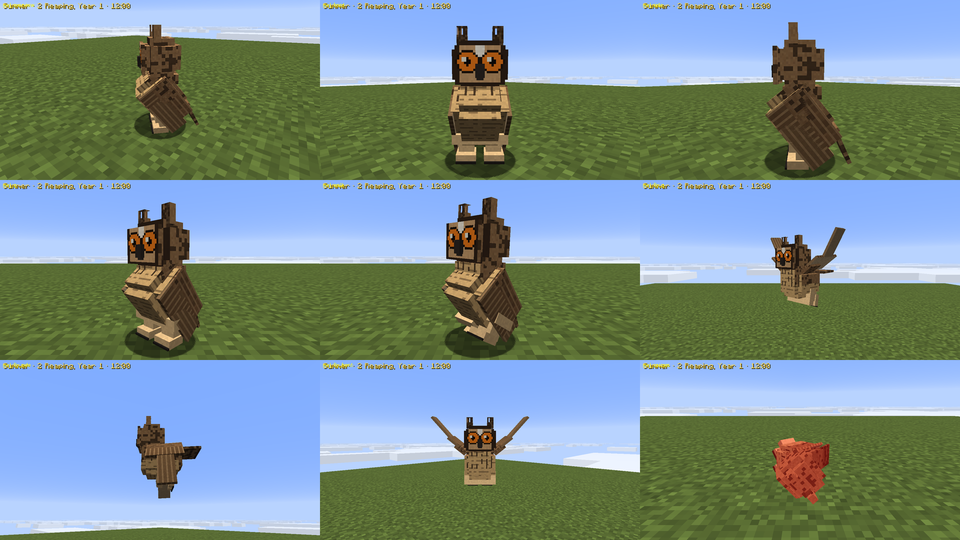
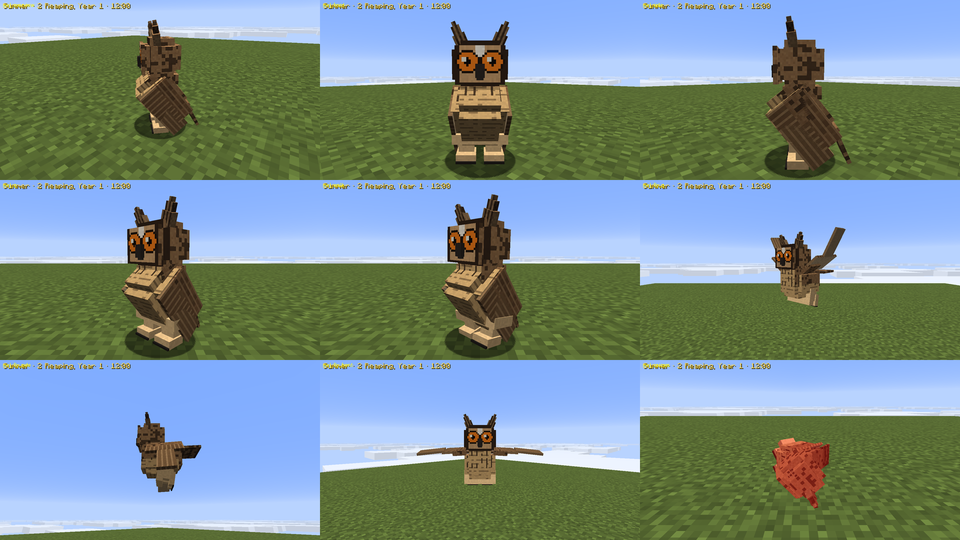
Small-package fix pass: eagle-owl tufts, wild cat ears, squirrel and vole eyes, hare sitting pose
- Eagle-owl: solid feathered ear tufts on their own head parts, splayed outward (were hollow alpha-cut boxes).
- Wild cat and kitten: short broad ears set wider and angled out, rounded tips; the back ridge fills the dips
  between the body blobs (no see-through gaps from the side).
- Red squirrel: dark bead eye with a thin pale ring, set clear of the cheek; slimmer ear tufts.
- Field vole: a round bead eye instead of the "+" shape.
- Hare: a lower sitting pitch (HareModel SIT_PITCH 0.25 -> 0.12, foreleg stretch to match), less leggy.
Shots in docs/shots/fauna/old_small_* refreshed.

diff --git a/src/main/java/com/mechanical/client/wildlife/SmallGeometry.java b/src/main/java/com/mechanical/client/wildlife/SmallGeometry.java
@@ -219,20 +219,20 @@ public final class SmallGeometry {
                 .texOffs(18, 24).addBox(-1.125F, -1.225F, -2.1F, 2.25F, 1.75F, 1.0F)
                 .texOffs(25, 24).addBox(-1.125F, -0.725F, -2.6F, 2.25F, 0.75F, 2.0F)
                 .texOffs(34, 24).addBox(-0.875F, -1.25F, -3.25F, 1.75F, 1.5F, 1.0F)
-                .texOffs(19, 28).addBox(-0.5F, -1.25F, -3.5F, 1.0F, 0.5F, 0.25F)
+                .texOffs(17, 28).addBox(-0.5F, -1.25F, -3.5F, 1.0F, 0.5F, 0.25F)
                 .texOffs(0, 28).addBox(-0.625F, 0.25F, -3.0F, 1.25F, 0.5F, 1.0F),
                 PartPose.offsetAndRotation(0.0F, -0.5F, -5.0F, 0.0F, 0.0F, 0.0F));
         PartDefinition p_right_ear = p_head.addOrReplaceChild("right_ear", CubeListBuilder.create()
                 .texOffs(40, 24).addBox(-0.5F, -1.75F, -0.25F, 1.0F, 1.75F, 0.5F)
-                .texOffs(5, 28).addBox(-0.5F, -3.0F, -0.125F, 1.0F, 1.5F, 0.25F),
+                .texOffs(5, 28).addBox(-0.25F, -3.0F, -0.125F, 0.5F, 1.5F, 0.25F),
                 PartPose.offsetAndRotation(-1.0F, -2.25F, -0.5F, 0.0F, 0.0F, -0.15F));
         PartDefinition p_left_ear = p_head.addOrReplaceChild("left_ear", CubeListBuilder.create()
                 .texOffs(43, 24).addBox(-0.5F, -1.75F, -0.25F, 1.0F, 1.75F, 0.5F)
-                .texOffs(8, 28).addBox(-0.5F, -3.0F, -0.125F, 1.0F, 1.5F, 0.25F),
+                .texOffs(7, 28).addBox(-0.25F, -3.0F, -0.125F, 0.5F, 1.5F, 0.25F),
                 PartPose.offsetAndRotation(1.0F, -2.25F, -0.5F, 0.0F, 0.0F, 0.15F));
         PartDefinition p_right_front_leg = p_body.addOrReplaceChild("right_front_leg", CubeListBuilder.create()
                 .texOffs(52, 20).addBox(-0.375F, -0.5F, -0.375F, 0.75F, 3.0F, 0.75F)
-                .texOffs(11, 28).addBox(-0.5F, 2.5F, -0.75F, 1.0F, 0.5F, 1.0F),
+                .texOffs(9, 28).addBox(-0.5F, 2.5F, -0.75F, 1.0F, 0.5F, 1.0F),
                 PartPose.offsetAndRotation(-1.0F, 1.0F, -4.0F, 0.0F, 0.0F, 0.0F));
         PartDefinition p_right_haunch = p_body.addOrReplaceChild("right_haunch", CubeListBuilder.create()
                 .texOffs(44, 15).addBox(-0.625F, -1.25F, -1.75F, 1.25F, 2.5F, 2.5F)
@@ -245,7 +245,7 @@ public final class SmallGeometry {
                 PartPose.offsetAndRotation(0.0F, 1.5F, 0.0F, 0.0F, 0.0F, 0.0F));
         PartDefinition p_left_front_leg = p_body.addOrReplaceChild("left_front_leg", CubeListBuilder.create()
                 .texOffs(0, 24).addBox(-0.375F, -0.5F, -0.375F, 0.75F, 3.0F, 0.75F)
-                .texOffs(15, 28).addBox(-0.5F, 2.5F, -0.75F, 1.0F, 0.5F, 1.0F),
+                .texOffs(13, 28).addBox(-0.5F, 2.5F, -0.75F, 1.0F, 0.5F, 1.0F),
                 PartPose.offsetAndRotation(1.0F, 1.0F, -4.0F, 0.0F, 0.0F, 0.0F));
         PartDefinition p_left_haunch = p_body.addOrReplaceChild("left_haunch", CubeListBuilder.create()
                 .texOffs(52, 15).addBox(-0.625F, -1.25F, -1.75F, 1.25F, 2.5F, 2.5F)
@@ -368,68 +368,68 @@ public final class SmallGeometry {
         MeshDefinition mesh = new MeshDefinition();
         PartDefinition root = mesh.getRoot();
         PartDefinition p_body = root.addOrReplaceChild("body", CubeListBuilder.create()
-                .texOffs(12, 30).addBox(-2.75F, -1.25F, -5.0F, 5.5F, 4.0F, 2.5F)
-                .texOffs(0, 12).addBox(-1.5F, -2.5F, -5.0F, 3.0F, 6.5F, 2.5F)
-                .texOffs(11, 12).addBox(-1.5F, -1.25F, -6.25F, 3.0F, 4.0F, 5.0F)
-                .texOffs(39, 38).addBox(-2.5F, -1.25F, -1.0F, 5.0F, 4.0F, 2.0F)
-                .texOffs(24, 21).addBox(-1.5F, -2.25F, -1.0F, 3.0F, 6.0F, 2.0F)
-                .texOffs(34, 21).addBox(-1.5F, -1.25F, -2.0F, 3.0F, 4.0F, 4.0F)
-                .texOffs(28, 30).addBox(-2.75F, -1.5F, 2.5F, 5.5F, 4.0F, 2.5F)
-                .texOffs(27, 12).addBox(-1.5F, -2.75F, 2.5F, 3.0F, 6.5F, 2.5F)
-                .texOffs(38, 12).addBox(-1.5F, -1.5F, 1.25F, 3.0F, 4.0F, 5.0F)
-                .texOffs(0, 0).addBox(-2.0F, -2.75F, -5.5F, 4.0F, 0.5F, 11.0F)
-                .texOffs(0, 21).addBox(-2.0F, 3.75F, -4.0F, 4.0F, 0.5F, 8.0F),
+                .texOffs(12, 31).addBox(-2.75F, -1.25F, -5.0F, 5.5F, 4.0F, 2.5F)
+                .texOffs(0, 13).addBox(-1.5F, -2.5F, -5.0F, 3.0F, 6.5F, 2.5F)
+                .texOffs(11, 13).addBox(-1.5F, -1.25F, -6.25F, 3.0F, 4.0F, 5.0F)
+                .texOffs(39, 39).addBox(-2.5F, -1.25F, -1.0F, 5.0F, 4.0F, 2.0F)
+                .texOffs(24, 22).addBox(-1.5F, -2.25F, -1.0F, 3.0F, 6.0F, 2.0F)
+                .texOffs(34, 22).addBox(-1.5F, -1.25F, -2.0F, 3.0F, 4.0F, 4.0F)
+                .texOffs(28, 31).addBox(-2.75F, -1.5F, 2.5F, 5.5F, 4.0F, 2.5F)
+                .texOffs(27, 13).addBox(-1.5F, -2.75F, 2.5F, 3.0F, 6.5F, 2.5F)
+                .texOffs(38, 13).addBox(-1.5F, -1.5F, 1.25F, 3.0F, 4.0F, 5.0F)
+                .texOffs(0, 0).addBox(-2.0F, -2.6F, -5.5F, 4.0F, 1.5F, 11.0F)
+                .texOffs(0, 22).addBox(-2.0F, 3.75F, -4.0F, 4.0F, 0.5F, 8.0F),
                 PartPose.offsetAndRotation(0.0F, 15.0F, 0.0F, 0.0F, 0.0F, 0.0F));
         PartDefinition p_head = p_body.addOrReplaceChild("head", CubeListBuilder.create()
-                .texOffs(0, 51).addBox(-2.25F, -2.25F, -3.25F, 4.5F, 2.5F, 2.5F)
-                .texOffs(44, 30).addBox(-1.5F, -3.0F, -3.25F, 3.0F, 4.0F, 2.5F)
-                .texOffs(0, 38).addBox(-1.5F, -2.25F, -4.0F, 3.0F, 2.5F, 4.0F)
-                .texOffs(33, 56).addBox(-2.75F, -0.25F, -3.0F, 5.5F, 1.0F, 1.5F)
-                .texOffs(14, 51).addBox(-2.0F, -1.0F, -3.0F, 4.0F, 2.5F, 1.5F)
-                .texOffs(25, 51).addBox(-2.0F, -0.25F, -3.75F, 4.0F, 1.0F, 3.0F)
-                .texOffs(47, 56).addBox(-1.75F, -3.25F, -3.75F, 3.5F, 0.5F, 2.0F)
-                .texOffs(0, 60).addBox(-1.25F, -0.5F, -5.0F, 2.5F, 1.75F, 1.25F)
-                .texOffs(23, 60).addBox(-0.5F, -0.75F, -5.25F, 1.0F, 0.5F, 0.5F)
-                .texOffs(18, 60).addBox(-0.75F, 1.25F, -4.5F, 1.5F, 0.5F, 1.0F)
-                .texOffs(26, 60).addBox(-3.5F, 0.5F, -4.75F, 7.0F, 0.0F, 1.0F),
+                .texOffs(0, 52).addBox(-2.25F, -2.25F, -3.25F, 4.5F, 2.5F, 2.5F)
+                .texOffs(44, 31).addBox(-1.5F, -3.0F, -3.25F, 3.0F, 4.0F, 2.5F)
+                .texOffs(0, 39).addBox(-1.5F, -2.25F, -4.0F, 3.0F, 2.5F, 4.0F)
+                .texOffs(33, 57).addBox(-2.75F, -0.25F, -3.0F, 5.5F, 1.0F, 1.5F)
+                .texOffs(14, 52).addBox(-2.0F, -1.0F, -3.0F, 4.0F, 2.5F, 1.5F)
+                .texOffs(25, 52).addBox(-2.0F, -0.25F, -3.75F, 4.0F, 1.0F, 3.0F)
+                .texOffs(47, 57).addBox(-1.75F, -3.25F, -3.75F, 3.5F, 0.5F, 2.0F)
+                .texOffs(0, 61).addBox(-1.25F, -0.5F, -5.0F, 2.5F, 1.75F, 1.25F)
+                .texOffs(25, 61).addBox(-0.5F, -0.75F, -5.25F, 1.0F, 0.5F, 0.5F)
+                .texOffs(8, 61).addBox(-0.75F, 1.25F, -4.5F, 1.5F, 0.5F, 1.0F)
+                .texOffs(28, 61).addBox(-3.5F, 0.5F, -4.75F, 7.0F, 0.0F, 1.0F),
                 PartPose.offsetAndRotation(0.0F, -1.5F, -6.0F, 0.0F, 0.0F, 0.0F));
         PartDefinition p_right_ear = p_head.addOrReplaceChild("right_ear", CubeListBuilder.create()
-                .texOffs(8, 60).addBox(-1.0F, -2.0F, -0.25F, 2.0F, 2.0F, 0.5F)
-                .texOffs(42, 60).addBox(-0.5F, -2.5F, -0.25F, 1.0F, 0.5F, 0.5F),
-                PartPose.offsetAndRotation(-1.75F, -2.75F, -1.75F, 0.0F, 0.0F, -0.25F));
+                .texOffs(13, 61).addBox(-1.25F, -1.25F, -0.25F, 2.5F, 1.25F, 0.5F)
+                .texOffs(44, 61).addBox(-0.75F, -1.75F, -0.25F, 1.5F, 0.5F, 0.5F),
+                PartPose.offsetAndRotation(-2.0F, -2.5F, -1.75F, 0.0F, 0.0F, -0.45F));
         PartDefinition p_left_ear = p_head.addOrReplaceChild("left_ear", CubeListBuilder.create()
-                .texOffs(13, 60).addBox(-1.0F, -2.0F, -0.25F, 2.0F, 2.0F, 0.5F)
-                .texOffs(45, 60).addBox(-0.5F, -2.5F, -0.25F, 1.0F, 0.5F, 0.5F),
-                PartPose.offsetAndRotation(1.75F, -2.75F, -1.75F, 0.0F, 0.0F, 0.25F));
+                .texOffs(19, 61).addBox(-1.25F, -1.25F, -0.25F, 2.5F, 1.25F, 0.5F)
+                .texOffs(48, 61).addBox(-0.75F, -1.75F, -0.25F, 1.5F, 0.5F, 0.5F),
+                PartPose.offsetAndRotation(2.0F, -2.5F, -1.75F, 0.0F, 0.0F, 0.45F));
         PartDefinition p_tail = p_body.addOrReplaceChild("tail", CubeListBuilder.create()
-                .texOffs(0, 45).addBox(-1.75F, -1.0F, 0.75F, 3.5F, 2.0F, 3.5F)
-                .texOffs(14, 38).addBox(-1.0F, -1.75F, 0.75F, 2.0F, 3.5F, 3.5F)
-                .texOffs(25, 38).addBox(-1.0F, -1.0F, 0.0F, 2.0F, 2.0F, 5.0F),
+                .texOffs(0, 46).addBox(-1.75F, -1.0F, 0.75F, 3.5F, 2.0F, 3.5F)
+                .texOffs(14, 39).addBox(-1.0F, -1.75F, 0.75F, 2.0F, 3.5F, 3.5F)
+                .texOffs(25, 39).addBox(-1.0F, -1.0F, 0.0F, 2.0F, 2.0F, 5.0F),
                 PartPose.offsetAndRotation(0.0F, -1.5F, 6.0F, -0.9F, 0.0F, 0.0F));
         PartDefinition p_tail_tip = p_tail.addOrReplaceChild("tail_tip", CubeListBuilder.create()
-                .texOffs(39, 51).addBox(-1.75F, -0.75F, 1.0F, 3.5F, 1.5F, 2.0F)
-                .texOffs(14, 45).addBox(-0.75F, -1.75F, 1.0F, 1.5F, 3.5F, 2.0F)
-                .texOffs(21, 45).addBox(-0.75F, -0.75F, 0.0F, 1.5F, 1.5F, 4.0F),
+                .texOffs(39, 52).addBox(-1.75F, -0.75F, 1.0F, 3.5F, 1.5F, 2.0F)
+                .texOffs(14, 46).addBox(-0.75F, -1.75F, 1.0F, 1.5F, 3.5F, 2.0F)
+                .texOffs(21, 46).addBox(-0.75F, -0.75F, 0.0F, 1.5F, 1.5F, 4.0F),
                 PartPose.offsetAndRotation(0.0F, 0.0F, 5.0F, 0.35F, 0.0F, 0.0F));
         PartDefinition p_right_front_leg = root.addOrReplaceChild("right_front_leg", CubeListBuilder.create()
-                .texOffs(48, 21).addBox(-1.5F, -1.0F, -1.5F, 3.0F, 4.5F, 3.0F)
-                .texOffs(32, 45).addBox(-1.0F, 2.5F, -1.0F, 2.0F, 3.75F, 2.0F)
-                .texOffs(50, 51).addBox(-1.25F, 6.0F, -1.75F, 2.5F, 1.0F, 2.75F),
+                .texOffs(48, 22).addBox(-1.5F, -1.0F, -1.5F, 3.0F, 4.5F, 3.0F)
+                .texOffs(32, 46).addBox(-1.0F, 2.5F, -1.0F, 2.0F, 3.75F, 2.0F)
+                .texOffs(50, 52).addBox(-1.25F, 6.0F, -1.75F, 2.5F, 1.0F, 2.75F),
                 PartPose.offsetAndRotation(-1.5F, 17.0F, -4.5F, 0.0F, 0.0F, 0.0F));
         PartDefinition p_right_hind_leg = root.addOrReplaceChild("right_hind_leg", CubeListBuilder.create()
                 .texOffs(30, 0).addBox(-1.5F, -1.5F, -2.25F, 3.0F, 5.5F, 4.5F)
-                .texOffs(40, 45).addBox(-1.0F, 3.5F, -0.75F, 2.0F, 3.75F, 2.0F)
-                .texOffs(0, 56).addBox(-1.25F, 7.0F, -2.0F, 2.5F, 1.0F, 3.0F),
+                .texOffs(40, 46).addBox(-1.0F, 3.5F, -0.75F, 2.0F, 3.75F, 2.0F)
+                .texOffs(0, 57).addBox(-1.25F, 7.0F, -2.0F, 2.5F, 1.0F, 3.0F),
                 PartPose.offsetAndRotation(-1.5F, 16.0F, 4.5F, 0.0F, 0.0F, 0.0F));
         PartDefinition p_left_front_leg = root.addOrReplaceChild("left_front_leg", CubeListBuilder.create()
-                .texOffs(0, 30).addBox(-1.5F, -1.0F, -1.5F, 3.0F, 4.5F, 3.0F)
-                .texOffs(48, 45).addBox(-1.0F, 2.5F, -1.0F, 2.0F, 3.75F, 2.0F)
-                .texOffs(11, 56).addBox(-1.25F, 6.0F, -1.75F, 2.5F, 1.0F, 2.75F),
+                .texOffs(0, 31).addBox(-1.5F, -1.0F, -1.5F, 3.0F, 4.5F, 3.0F)
+                .texOffs(48, 46).addBox(-1.0F, 2.5F, -1.0F, 2.0F, 3.75F, 2.0F)
+                .texOffs(11, 57).addBox(-1.25F, 6.0F, -1.75F, 2.5F, 1.0F, 2.75F),
                 PartPose.offsetAndRotation(1.5F, 17.0F, -4.5F, 0.0F, 0.0F, 0.0F));
         PartDefinition p_left_hind_leg = root.addOrReplaceChild("left_hind_leg", CubeListBuilder.create()
                 .texOffs(45, 0).addBox(-1.5F, -1.5F, -2.25F, 3.0F, 5.5F, 4.5F)
-                .texOffs(56, 45).addBox(-1.0F, 3.5F, -0.75F, 2.0F, 3.75F, 2.0F)
-                .texOffs(22, 56).addBox(-1.25F, 7.0F, -2.0F, 2.5F, 1.0F, 3.0F),
+                .texOffs(56, 46).addBox(-1.0F, 3.5F, -0.75F, 2.0F, 3.75F, 2.0F)
+                .texOffs(22, 57).addBox(-1.25F, 7.0F, -2.0F, 2.5F, 1.0F, 3.0F),
                 PartPose.offsetAndRotation(1.5F, 16.0F, 4.5F, 0.0F, 0.0F, 0.0F));
         return LayerDefinition.create(mesh, 64, 64);
     }
@@ -980,7 +980,7 @@ public final class SmallGeometry {
         return LayerDefinition.create(mesh, 64, 64);
     }
 
-    /** Eagle-owl: 10 parts, 33 boxes, 256x256 skin. */
+    /** Eagle-owl: 12 parts, 37 boxes, 256x256 skin. */
     public static LayerDefinition owl() {
         MeshDefinition mesh = new MeshDefinition();
         PartDefinition root = mesh.getRoot();
@@ -1016,13 +1016,13 @@ public final class SmallGeometry {
                 .texOffs(0, 45).addBox(-1.75F, -1.0F, -1.75F, 3.5F, 1.25F, 3.5F)
                 .texOffs(50, 45).addBox(-1.0F, 0.0F, -1.0F, 2.0F, 2.0F, 2.0F)
                 .texOffs(0, 50).addBox(-1.25F, 1.5F, -2.0F, 2.5F, 1.0F, 2.5F)
-                .texOffs(42, 50).addBox(-1.25F, 2.25F, -2.25F, 2.5F, 0.25F, 0.25F),
+                .texOffs(50, 50).addBox(-1.25F, 2.25F, -2.25F, 2.5F, 0.25F, 0.25F),
                 PartPose.offsetAndRotation(1.75F, 21.5F, 0.5F, 0.0F, 0.0F, 0.0F));
         PartDefinition p_right_leg = root.addOrReplaceChild("right_leg", CubeListBuilder.create()
                 .texOffs(14, 45).addBox(-1.75F, -1.0F, -1.75F, 3.5F, 1.25F, 3.5F)
                 .texOffs(10, 50).addBox(-1.0F, 0.0F, -1.0F, 2.0F, 2.0F, 2.0F)
                 .texOffs(18, 50).addBox(-1.25F, 1.5F, -2.0F, 2.5F, 1.0F, 2.5F)
-                .texOffs(48, 50).addBox(-1.25F, 2.25F, -2.25F, 2.5F, 0.25F, 0.25F),
+                .texOffs(56, 50).addBox(-1.25F, 2.25F, -2.25F, 2.5F, 0.25F, 0.25F),
                 PartPose.offsetAndRotation(-1.75F, 21.5F, 0.5F, 0.0F, 0.0F, 0.0F));
         PartDefinition p_neck = p_body.addOrReplaceChild("neck", CubeListBuilder.create()
                 .texOffs(38, 33).addBox(-2.25F, -1.5F, -2.25F, 4.5F, 1.5F, 4.5F),
@@ -1032,11 +1032,19 @@ public final class SmallGeometry {
                 .texOffs(0, 24).addBox(-2.25F, -5.5F, -2.0F, 4.5F, 5.5F, 3.5F)
                 .texOffs(16, 24).addBox(-2.25F, -4.5F, -3.0F, 4.5F, 3.5F, 5.5F)
                 .texOffs(28, 45).addBox(-2.75F, -4.75F, -3.25F, 5.5F, 4.25F, 0.5F)
-                .texOffs(38, 50).addBox(-0.5F, -2.75F, -3.75F, 1.0F, 1.5F, 0.75F)
-                .texOffs(54, 50).addBox(-0.375F, -1.5F, -3.5F, 0.75F, 0.5F, 0.5F)
-                .texOffs(28, 50).addBox(-2.75F, -7.25F, -1.5F, 1.25F, 2.25F, 1.0F)
-                .texOffs(33, 50).addBox(1.5F, -7.25F, -1.5F, 1.25F, 2.25F, 1.0F),
+                .texOffs(28, 50).addBox(-0.5F, -2.75F, -3.75F, 1.0F, 1.5F, 0.75F)
+                .texOffs(0, 54).addBox(-0.375F, -1.5F, -3.5F, 0.75F, 0.5F, 0.5F),
                 PartPose.offsetAndRotation(0.0F, -1.25F, 0.0F, 0.0F, 0.0F, 0.0F));
+        PartDefinition p_right_tuft = p_head.addOrReplaceChild("right_tuft", CubeListBuilder.create()
+                .texOffs(32, 50).addBox(-0.75F, -1.5F, -0.5F, 1.5F, 1.75F, 1.0F)
+                .texOffs(42, 50).addBox(-0.5F, -2.5F, -0.375F, 1.0F, 1.0F, 0.75F)
+                .texOffs(3, 54).addBox(-0.25F, -3.0F, -0.25F, 0.5F, 0.5F, 0.5F),
+                PartPose.offsetAndRotation(-2.0F, -5.0F, -1.0F, 0.15F, 0.0F, -0.4F));
+        PartDefinition p_left_tuft = p_head.addOrReplaceChild("left_tuft", CubeListBuilder.create()
+                .texOffs(37, 50).addBox(-0.75F, -1.5F, -0.5F, 1.5F, 1.75F, 1.0F)
+                .texOffs(46, 50).addBox(-0.5F, -2.5F, -0.375F, 1.0F, 1.0F, 0.75F)
+                .texOffs(5, 54).addBox(-0.25F, -3.0F, -0.25F, 0.5F, 0.5F, 0.5F),
+                PartPose.offsetAndRotation(2.0F, -5.0F, -1.0F, 0.15F, 0.0F, 0.4F));
         return LayerDefinition.create(mesh, 64, 64);
     }
 

diff --git a/scripts/gen_small_models.py b/scripts/gen_small_models.py
@@ -520,7 +520,7 @@ def squirrel():
     for s, n in ((-1, "right_ear"), (1, "left_ear")):
         m.part(n, "head", (s * 1.0, -2.25, -0.5), (0, 0, s * 0.15))
         m.box(n, "ear", -0.5, -1.75, -0.25, 1, 1.75, 0.5)
-        m.box(n, "tuft", -0.5, -3.0, -0.125, 1, 1.5, 0.25)   # the long ear tufts
+        m.box(n, "tuft", -0.25, -3.0, -0.125, 0.5, 1.5, 0.25)   # the long ear tufts
     for s, side in ((-1, "right"), (1, "left")):
         fl = side + "_front_leg"
         m.part(fl, "body", (s * 1.0, 1.0, -4))
@@ -562,7 +562,7 @@ def squirrel_colour(P):
         if mat == "belly":
             return P["belly"]
         if mat in ("skull", "cheek"):
-            if mat == "skull" and (e := eye(t, 0.45, 0.32, 0.55, iris=(18, 12, 10), ring=P["ring"])):
+            if mat == "skull" and (e := eye(t, 0.34, 0.3, 0.4, iris=(14, 10, 8), ring=lerp(P["ring"], P["light"], 0.7))):
                 return e
             c = fur(t, P["fur"], P["dark"], P["light"], streak=2, rough=0.6)
             if mat == "cheek" and (t.face == "bottom" or t.gv > 0.65):
@@ -632,7 +632,7 @@ VOLE = dict(fur=hexc("#7a5e40"), dark=hexc("#3e2c1c"), light=hexc("#a6865e"), be
 def vole_colour(P):
     def col(mat, t):
         if mat in ("body", "rump", "skull", "snout"):
-            if mat == "skull" and (e := eye(t, 0.32, 0.25, 0.45, iris=(10, 8, 8))):
+            if mat == "skull" and (e := eye(t, 0.36, 0.25, 0.4, iris=(10, 8, 8))):
                 return e
             c = fur(t, P["fur"], P["dark"], P["light"], streak=3, rough=0.8)
             if t.face == "bottom" or (t.vert and t.Y > 22.6):
@@ -727,7 +727,7 @@ def wild_cat():
     m.blob("body", "chest", 0, 0.75, -3.75, 5.5, 6.5, 5, 1.25)
     m.blob("body", "belly", 0, 0.75, 0, 5, 6, 4, 1.0)
     m.blob("body", "haunch", 0, 0.5, 3.75, 5.5, 6.5, 5, 1.25)
-    m.box("body", "back", -2, -2.75, -5.5, 4, 0.5, 11)
+    m.box("body", "back", -2, -2.6, -5.5, 4, 1.5, 11)  # fills the dips between the three body blobs
     m.box("body", "belly_fur", -2, 3.75, -4, 4, 0.5, 8)
     m.part("head", "body", (0, -1.5, -6))
     m.blob("head", "skull", 0, -1.0, -2.0, 4.5, 4, 4, 0.75)
@@ -738,9 +738,9 @@ def wild_cat():
     m.box("head", "chin", -0.75, 1.25, -4.5, 1.5, 0.5, 1)
     m.box("head", "whiskers", -3.5, 0.5, -4.75, 7, 0, 1)
     for s, n in ((-1, "right_ear"), (1, "left_ear")):
-        m.part(n, "head", (s * 1.75, -2.75, -1.75), (0, 0, s * 0.25))
-        m.box(n, "ear", -1.0, -2.0, -0.25, 2, 2, 0.5)
-        m.box(n, "ear", -0.5, -2.5, -0.25, 1, 0.5, 0.5)
+        m.part(n, "head", (s * 2.0, -2.5, -1.75), (0, 0, s * 0.45))
+        m.box(n, "ear", -1.25, -1.25, -0.25, 2.5, 1.25, 0.5)
+        m.box(n, "ear", -0.75, -1.75, -0.25, 1.5, 0.5, 0.5)
     m.part("tail", "body", (0, -1.5, 6), (-0.9, 0, 0))
     m.blob("tail", "tail", 0, 0, 2.5, 3.5, 3.5, 5, 0.75)
     m.part("tail_tip", "tail", (0, 0, 5), (0.35, 0, 0))
@@ -805,6 +805,8 @@ def wild_cat_colour(P):
         if mat == "whiskers":
             return (236, 232, 222) if (abs(t.x) > 2.3 and h(t.gx, t.gy, 2) < 0.35) else None
         if mat == "ear":
+            if t.box[4] < 1 and t.vert and t.v < 0.5 and (t.u < 0.17 or t.u > 0.83):
+                return None  # the rounded tip
             if t.face == "front":
                 return lerp(P["light"], P["nose"], 0.25) if 0.25 < t.u < 0.75 and t.v > 0.25 else P["light"]
             return lerp(P["warm"], P["dark"], 0.3 * t.n)
@@ -1492,7 +1494,11 @@ def eagle_owl():
     m.box("head", "bill", -0.5, -2.75, -3.75, 1, 1.5, 0.75)
     m.box("head", "bill_tip", -0.375, -1.5, -3.5, 0.75, 0.5, 0.5)
     for s in (-1, 1):
-        m.box("head", "tuft", (1.5 if s > 0 else -2.75), -7.25, -1.5, 1.25, 2.25, 1.0)   # the ear tufts
+        n = "left_tuft" if s > 0 else "right_tuft"
+        m.part(n, "head", (s * 2.0, -5.0, -1.0), (0.15, 0, s * 0.4))           # the ear tufts, splayed outward
+        m.box(n, "tuft", -0.75, -1.5, -0.5, 1.5, 1.75, 1.0)
+        m.box(n, "tuft", -0.5, -2.5, -0.375, 1.0, 1.0, 0.75)
+        m.box(n, "tuft", -0.25, -3.0, -0.25, 0.5, 0.5, 0.5)
     m.boxes = [b for b in m.boxes if b[1] != "breast"]  # upright, the breast bulge would jut out under the face
     seat(m, 0.75)
     return m
@@ -1547,7 +1553,7 @@ def owl_colour(P):
         return lerp(c, P["dark"], 0.6) if int(t.z * 2) % 3 == 0 else c
     return bird_colour(P, {"body": body, "breast": streaked, "belly": streaked, "back": lambda t: mott(t, P["back"]),
                            "rump": lambda t: mott(t, P["back"]), "disc": disc,
-                           "tuft": lambda t: None if (t.vert and t.v < 0.4 and ragged(t, 0.4)) else mott(t, P["dark"] if t.face == "front" else P["head"]),
+                           "tuft": lambda t: lerp(P["dark"], P["edge"], 0.45 * (int(t.x * 4 + 8) % 2) + 0.2 * t.n) if t.vert else mott(t, P["head"]),
                            "head": lambda t: mott(t, P["head"]) if t.face != "front" else P["rim"],
                            "neck": lambda t: streaked(t) if t.face == "front" else mott(t, P["head"]),
                            "covert": lambda t: mott(t, P["covert"]), "tail": tail,

diff --git a/src/main/java/com/mechanical/client/wildlife/HareModel.java b/src/main/java/com/mechanical/client/wildlife/HareModel.java
@@ -21,7 +21,7 @@ import net.minecraft.util.Mth;
 public class HareModel extends EntityModel<WildAnimalRenderState> {
     public static final ModelLayerLocation LAYER = new ModelLayerLocation(Identifier.fromNamespaceAndPath("mechanical", "hare"), "main");
     /** Body pitch (radians, nose up) when sitting up. */
-    private static final float SIT_PITCH = 0.25F;
+    private static final float SIT_PITCH = 0.12F;
 
     private final ModelPart body;
     private final ModelPart head;
@@ -110,8 +110,8 @@ public class HareModel extends EntityModel<WildAnimalRenderState> {
         this.rightHaunch.xRot += SIT_PITCH * sit;
         this.leftFrontLeg.xRot += SIT_PITCH * sit;
         this.rightFrontLeg.xRot += SIT_PITCH * sit;
-        this.leftFrontLeg.yScale = 1.0F + 0.26F * sit;
-        this.rightFrontLeg.yScale = 1.0F + 0.26F * sit;
+        this.leftFrontLeg.yScale = 1.0F + 0.13F * sit; // keeps the forepaws on the ground at SIT_PITCH
+        this.rightFrontLeg.yScale = 1.0F + 0.13F * sit;
         this.head.xRot += 0.15F * sit;
 
         // Bounding: hind legs push off together, the body flies with the forelegs reaching forward, lands on the
